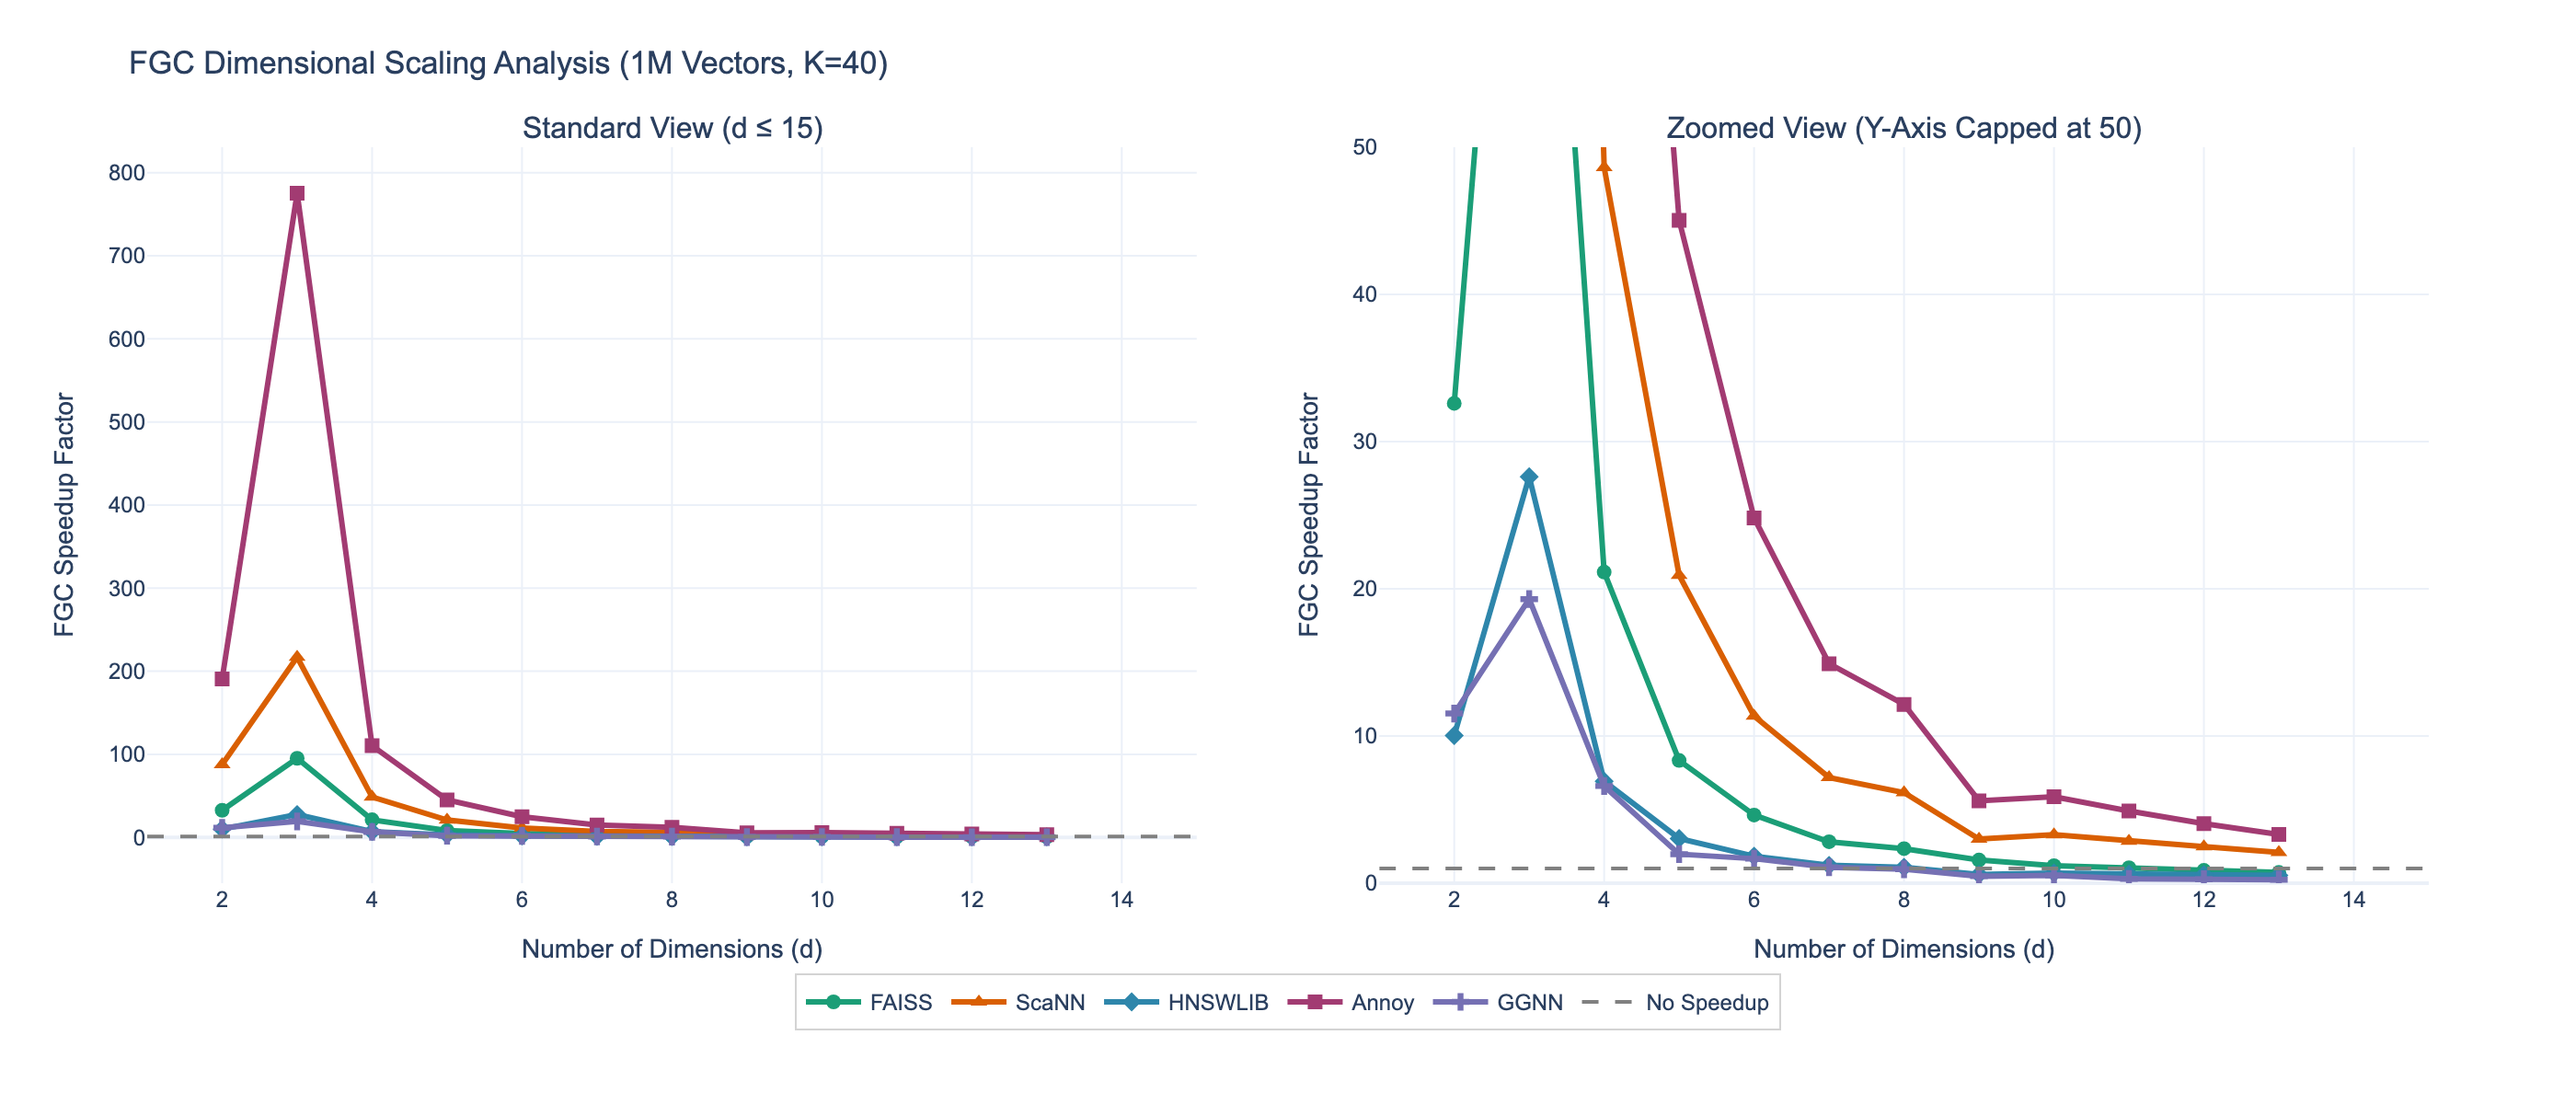
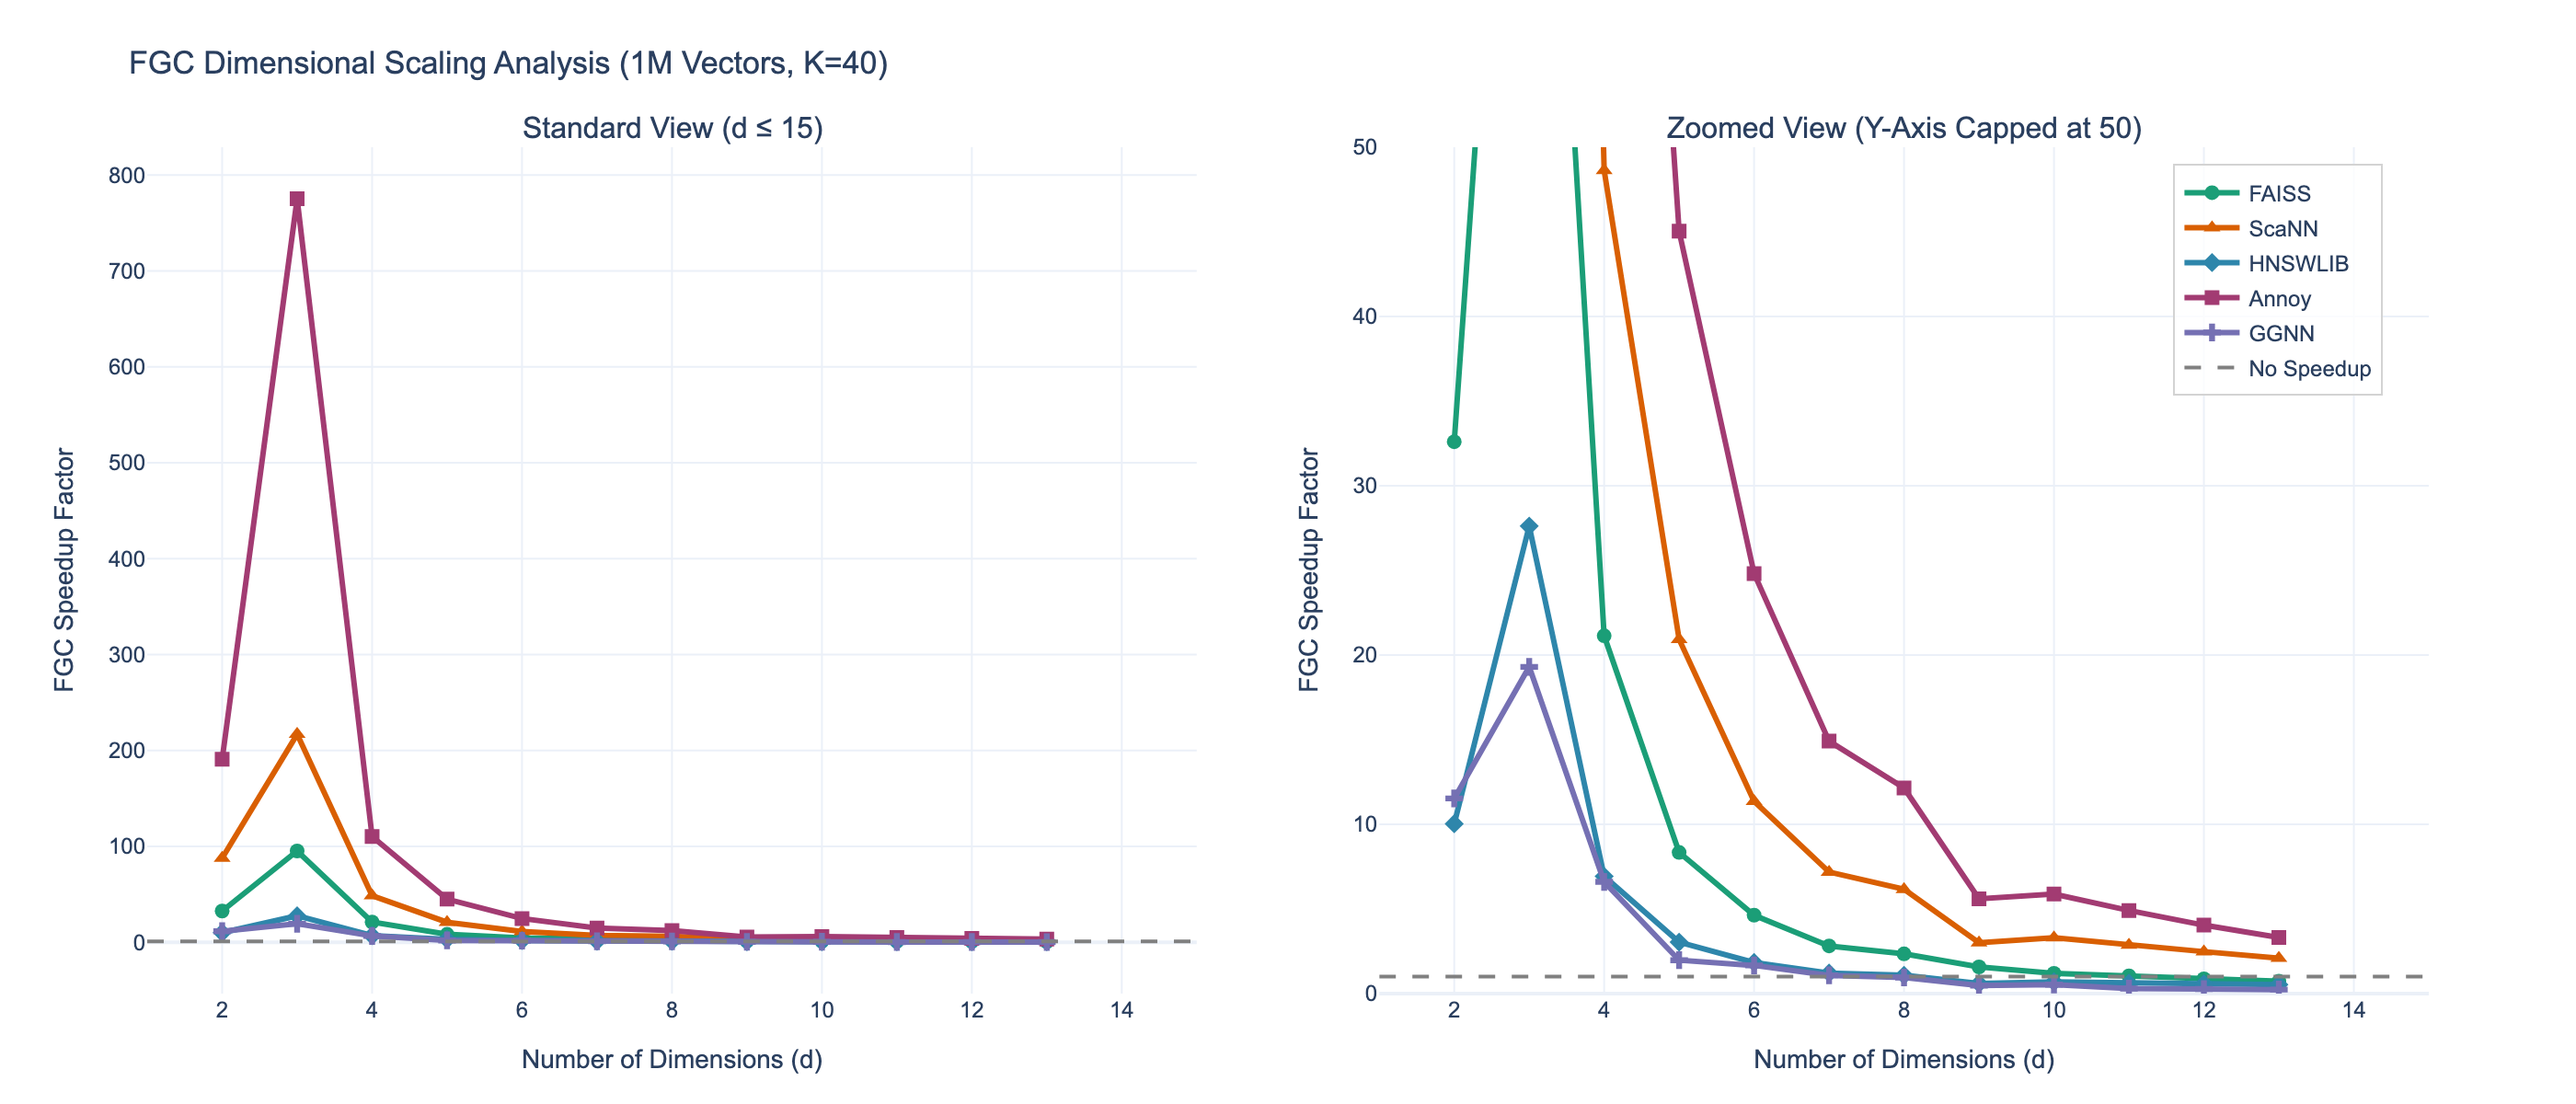
legend updates

diff --git a/process_csvs.py b/process_csvs.py
@@ -486,7 +486,7 @@ def plot_side_by_side_with_zoom(data: pd.DataFrame, analysis_type: str, **kwargs
                 row=1, col=col
             )
 
-    # Update main layout
+    # Update main layout - position legend on rightmost subplot (col=2)
     fig.update_layout(
         title_text=main_title,
         height=600,
@@ -494,16 +494,16 @@ def plot_side_by_side_with_zoom(data: pd.DataFrame, analysis_type: str, **kwargs
         template='plotly_white',
         font=dict(family="Arial", size=12),
         legend=dict(
-            orientation="h",
-            yanchor="bottom",
-            y=-0.2,
-            xanchor="center",
-            x=0.5,
+            orientation="v",
+            yanchor="top",
+            y=0.98,
+            xanchor="right",
+            x=0.98,
             bgcolor="rgba(255,255,255,0.8)",
             bordercolor="lightgray",
             borderwidth=1
         ),
-        margin=dict(t=80, b=120, l=80, r=80)
+        margin=dict(t=80, b=60, l=80, r=80)
     )
 
     return fig
@@ -546,7 +546,7 @@ def plot_k_comparison_dimensional_analysis(data: pd.DataFrame) -> go.Figure:
             row=1, col=i
         )
 
-    # Update main layout
+    # Update main layout - position legend on rightmost subplot (col=3)
     fig.update_layout(
         title_text="FGC Dimensional Scaling Analysis: K Comparison (1M Vectors, d=2-10)",
         height=600,
@@ -554,16 +554,16 @@ def plot_k_comparison_dimensional_analysis(data: pd.DataFrame) -> go.Figure:
         template='plotly_white',
         font=dict(family="Arial", size=12),
         legend=dict(
-            orientation="h",
-            yanchor="bottom",
-            y=-0.2,
-            xanchor="center",
-            x=0.5,
+            orientation="v",
+            yanchor="top",
+            y=0.98,
+            xanchor="right",
+            x=0.98,
             bgcolor="rgba(255,255,255,0.8)",
             bordercolor="lightgray",
             borderwidth=1
         ),
-        margin=dict(t=80, b=120, l=80, r=80)
+        margin=dict(t=80, b=60, l=80, r=80)
     )
     return fig
 
@@ -600,7 +600,7 @@ def create_plots():
     # 2. d5: K=40, size iterate (side-by-side with zoom)
     print("\n2. Creating FGC speedup analysis: D=5, K=40, varying sizes (with zoom)...")
     fig2 = plot_side_by_side_with_zoom(
-        data, 'sizes', dimension=5, k=40, y_axis_cap=100)
+        data, 'sizes', dimension=5, k=40, y_axis_cap=50)
     save_figure(fig2, 'plots/fgc_speedup_d5_all_algorithms.png', 1400, 600)
 
     # 3. k comparison: 10, 40, 100 @ dimension iteration, 1M size
